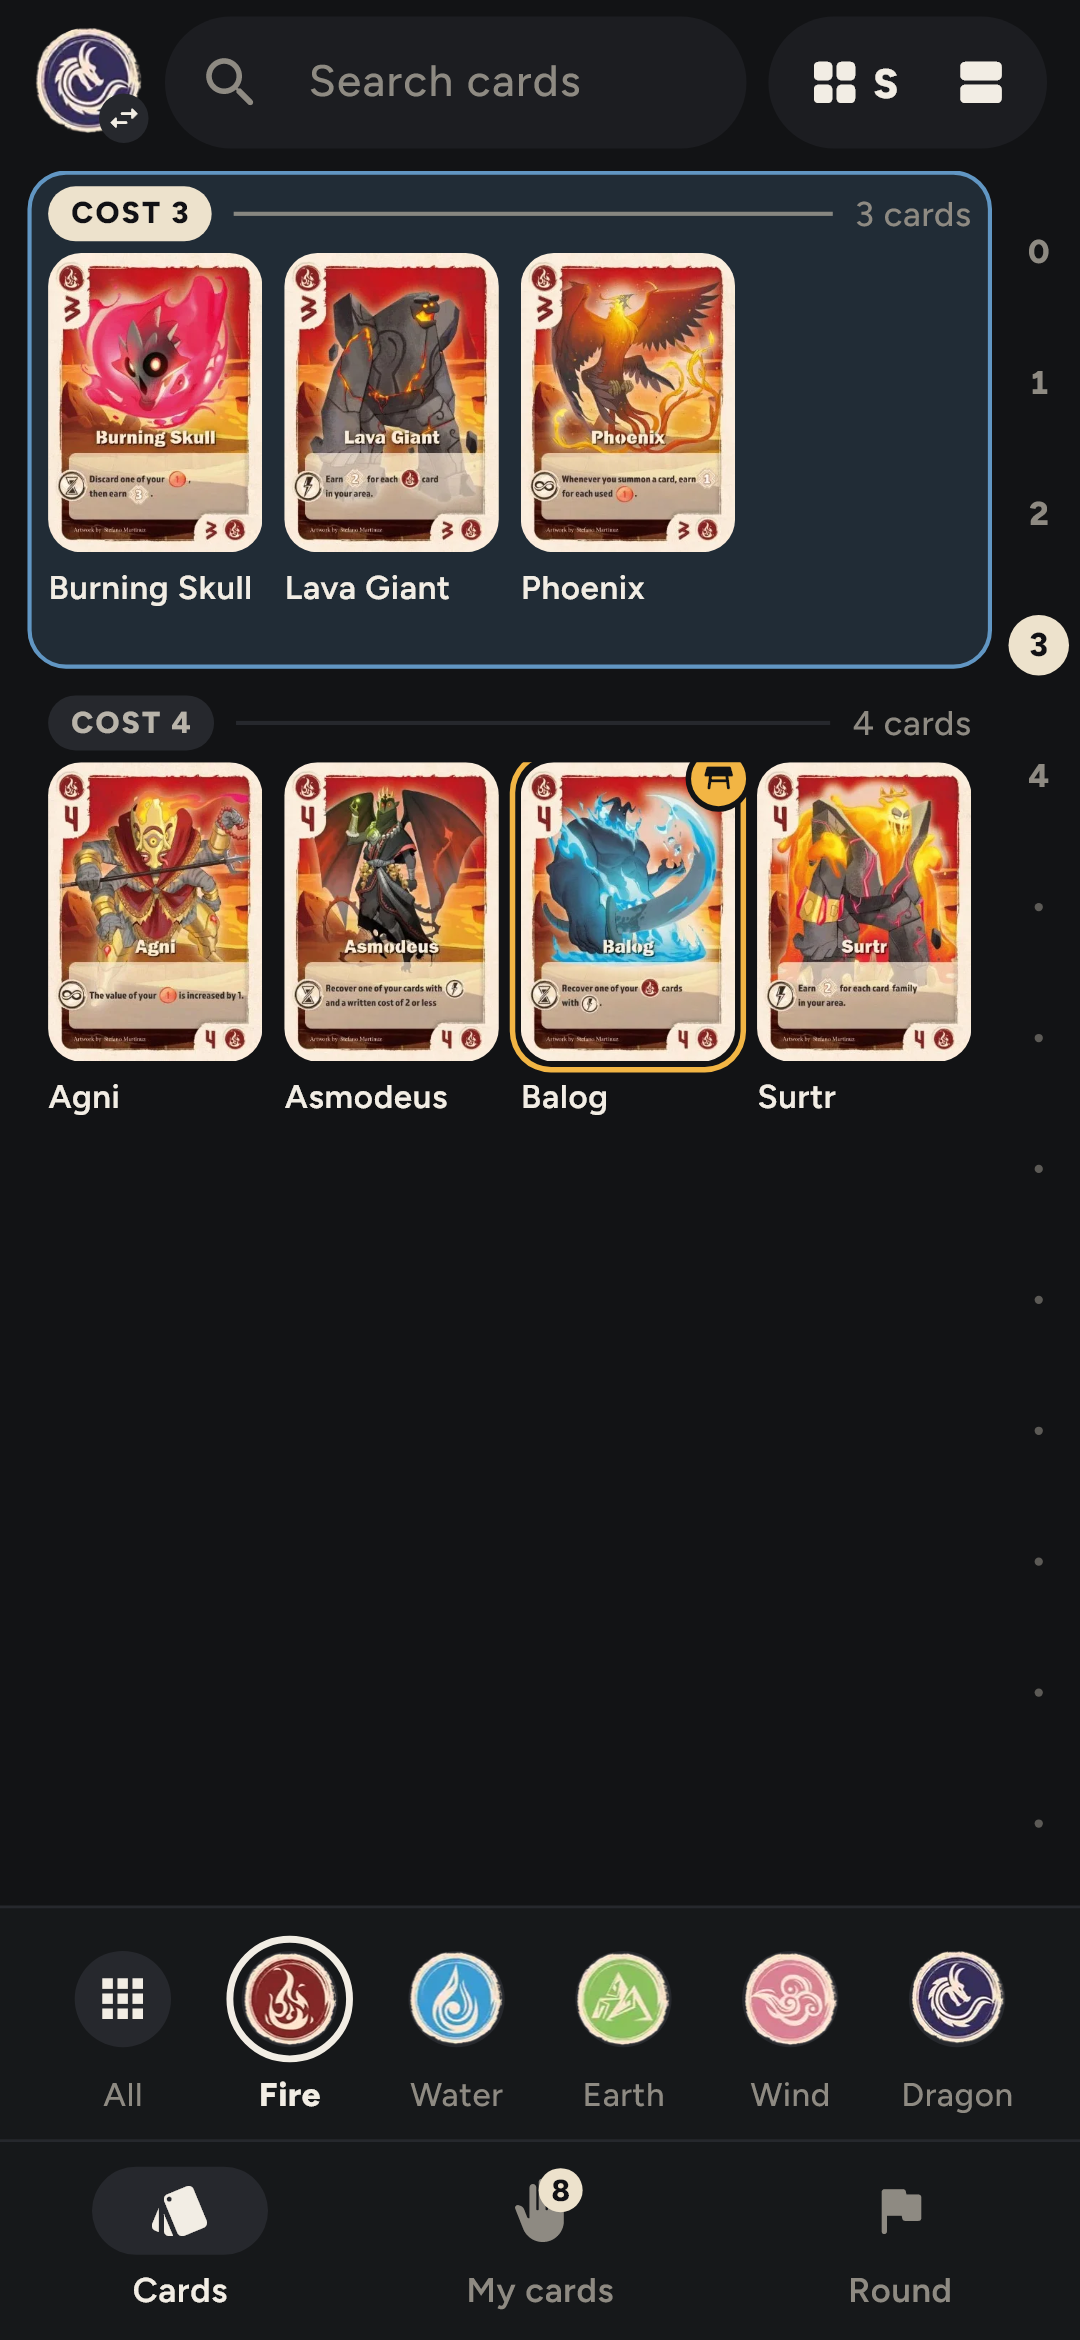
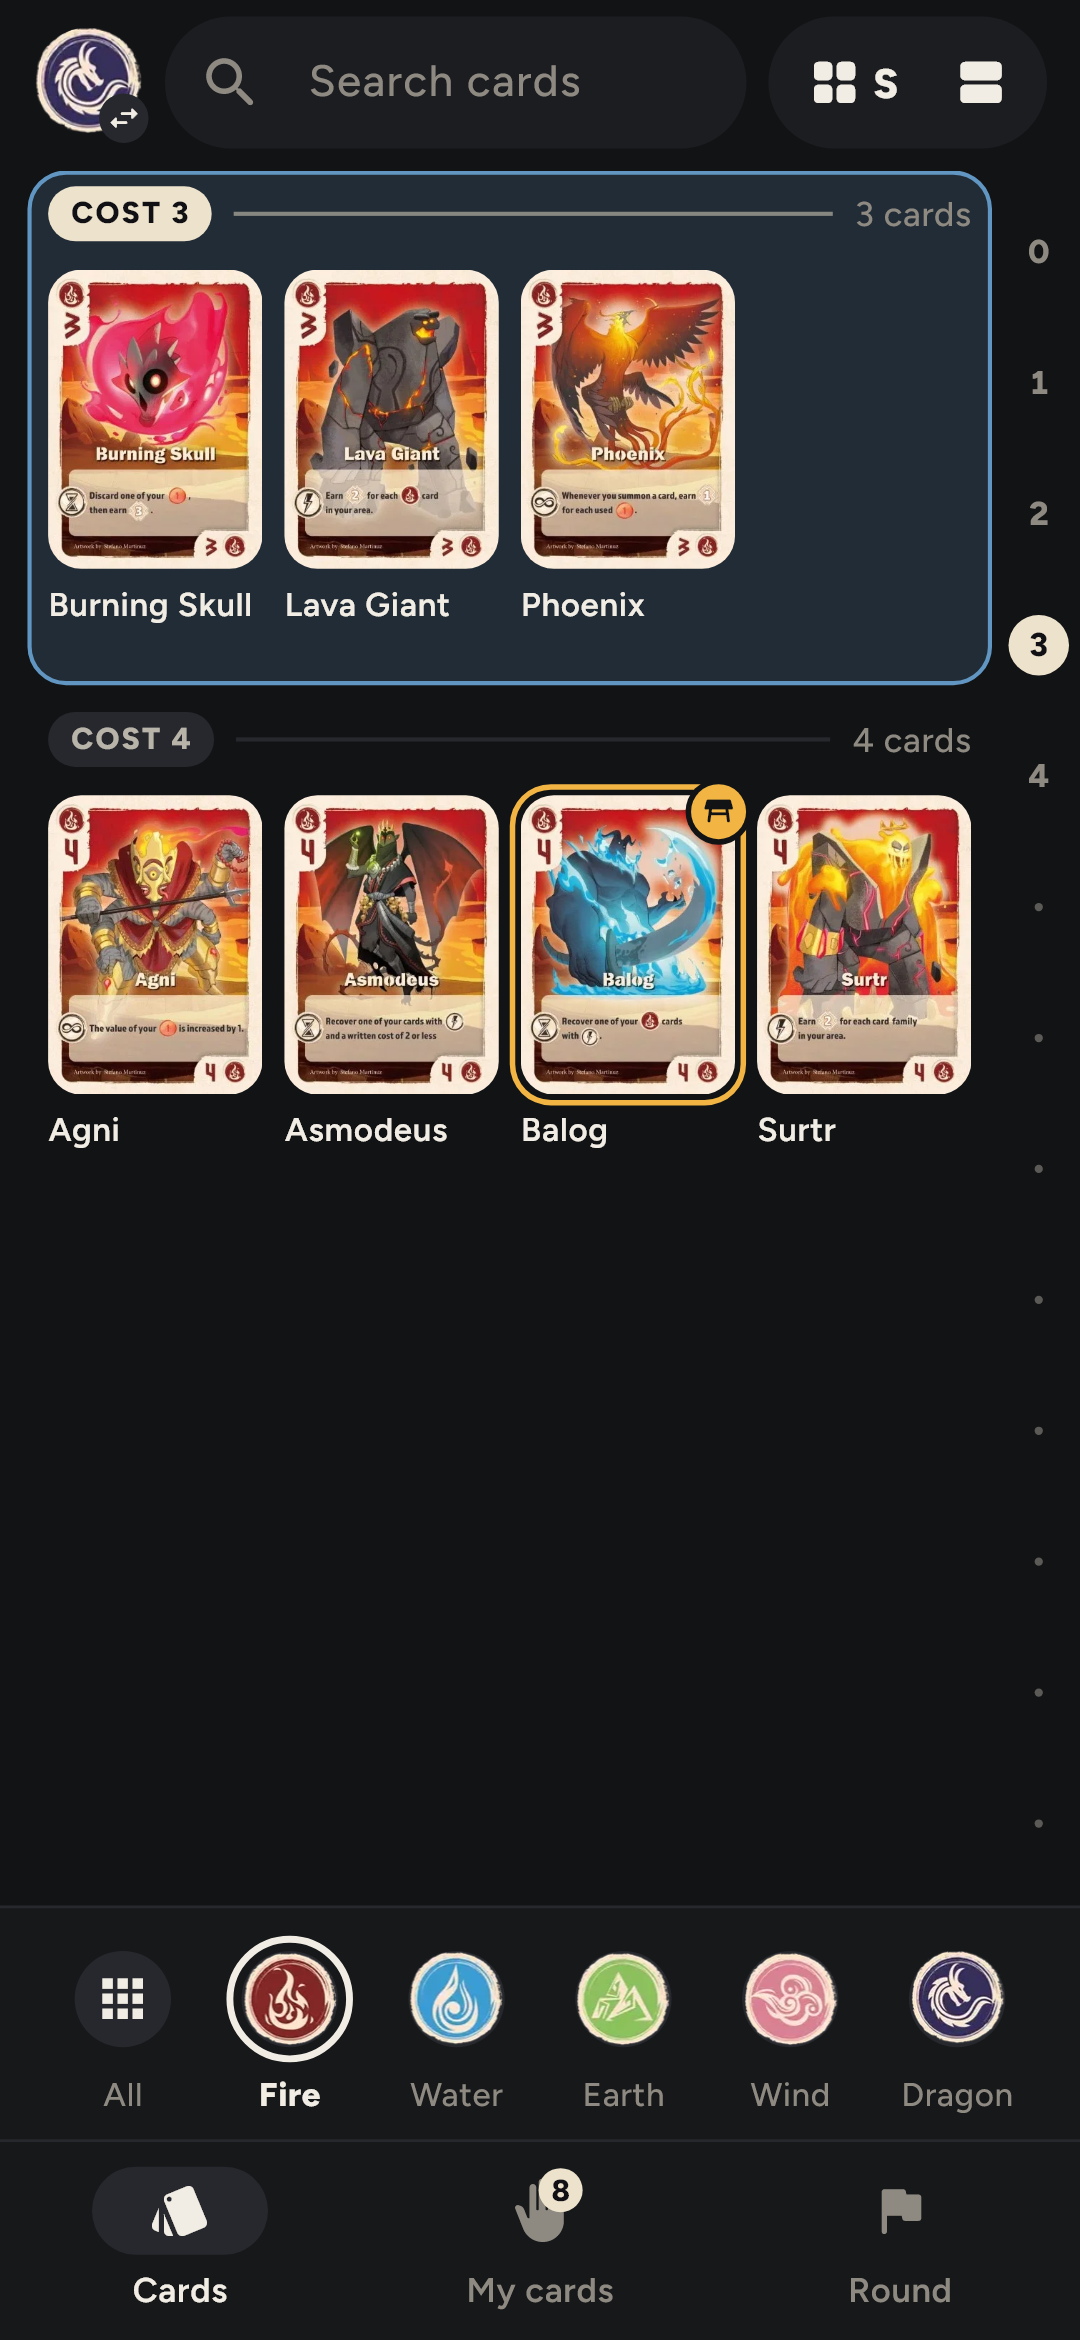
fix: tracked cards' corner chip no longer slides under the sticky cost header
The group body kept only bottom padding after the header became part of the container,
so the 6 dp chip overhang (and the 2 dp outline) were painted over by the pinned header.
The body pads 6 dp on top again, counted in the section height.

Changed region(s): [[0.0306, 0.0936, 0.9167, 0.4991]]

diff --git a/lib/blocks/gallery/layouts.dart b/lib/blocks/gallery/layouts.dart
@@ -124,7 +124,9 @@ class SectionPanel extends StatelessWidget {
     final line = BorderSide(color: active ? p.highlight.withValues(alpha: 0.7) : Colors.transparent, width: kGroupBorder);
     return AnimatedContainer(
       duration: context.read<Settings>().anim(const Duration(milliseconds: 200)),
-      padding: EdgeInsets.fromLTRB(kGroupPad.left, 0, kGroupPad.right, kGroupPad.bottom),
+      // Top padding too: a tracked card's corner chip overhangs by 6 dp and must not slide
+      // under the pinned header.
+      padding: kGroupPad,
       decoration: BoxDecoration(
         color: active ? p.highlight.withValues(alpha: 0.14) : null,
         borderRadius: const BorderRadius.vertical(bottom: Radius.circular(14)),

diff --git a/lib/blocks/gallery/gallery_block.dart b/lib/blocks/gallery/gallery_block.dart
@@ -405,11 +405,11 @@ class _GalleryBlockState extends State<GalleryBlock> {
     for (final k in keys) {
       final items = shown.where((it) => resolvePath(it.data, sections.path).firstOrNull == k).toList();
       _sectionOffsets[k] = y;
-      // Header (with the top border) + body (cards, bottom padding, bottom border) + gap.
+      // Header (with the top border) + body (padding, cards, padding, bottom border) + gap.
       final h =
           _headerH +
           ReflowGrid.heightFor(items.length, innerW, columns, aspect: spec.cardAspect, extra: extra) +
-          kGroupPad.bottom +
+          kGroupPad.vertical +
           kGroupBorder +
           _sectionGap;
       _sectionSpans[k] = [(y, y + h)];
